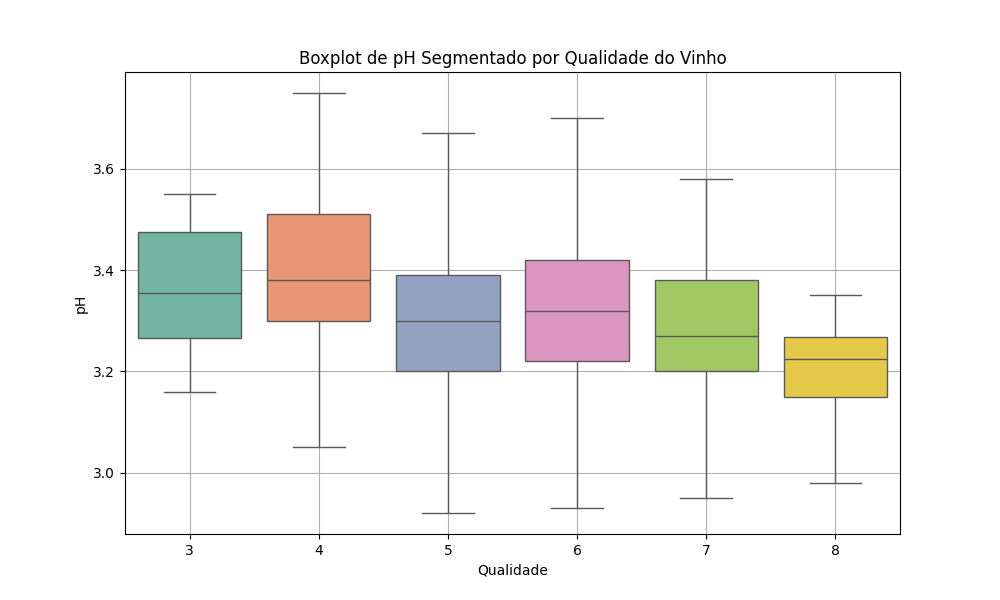
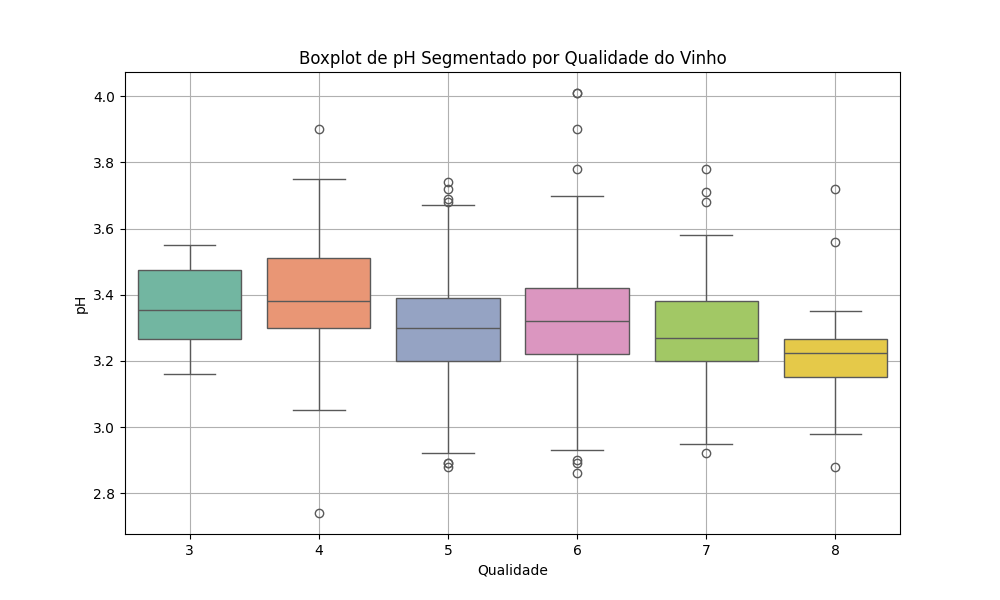
versao 1.2

diff --git a/src/main.py b/src/main.py
@@ -12,9 +12,8 @@ plt.ylabel('Frequência')
 plt.grid(True)
 plt.savefig('../imgs/histograma_alcool.png')
 
-
 plt.figure(figsize=(10, 6))
-sns.boxplot(x='quality', y='pH', data=df, hue='quality', palette='Set2', showfliers=False, legend=False)
+sns.boxplot(x='quality', y='pH', data=df, palette='Set2', hue='quality', legend=False)
 plt.title('Boxplot de pH Segmentado por Qualidade do Vinho')
 plt.xlabel('Qualidade')
 plt.ylabel('pH')
